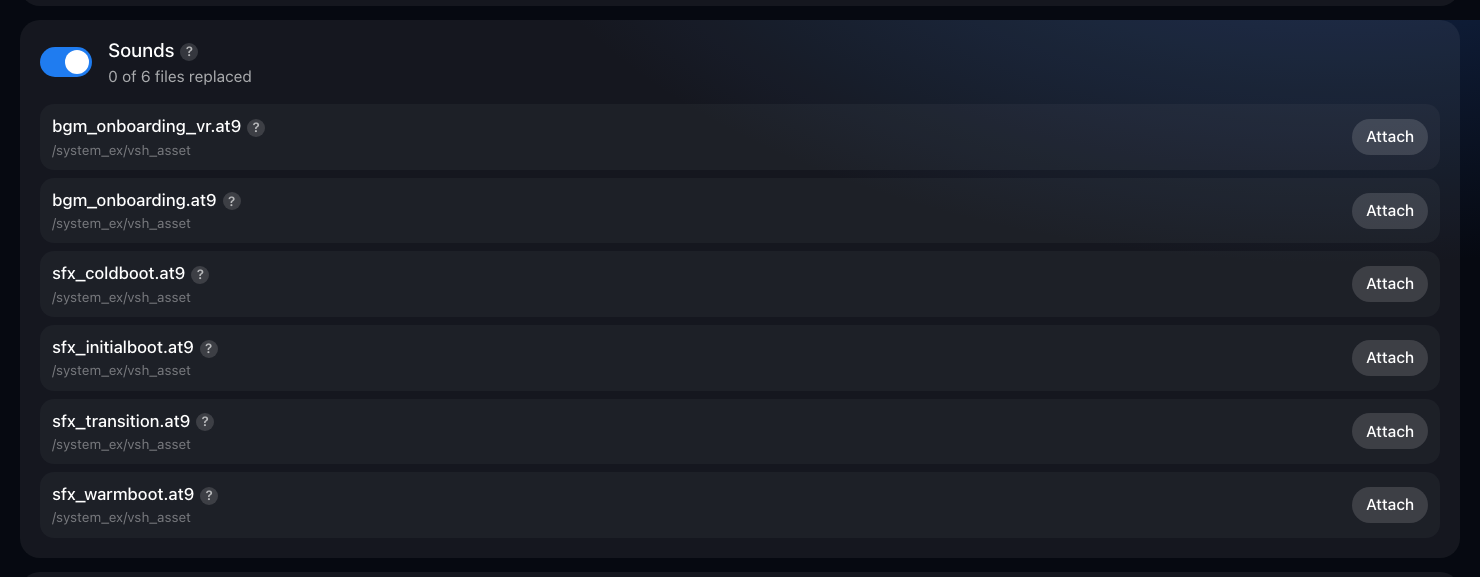
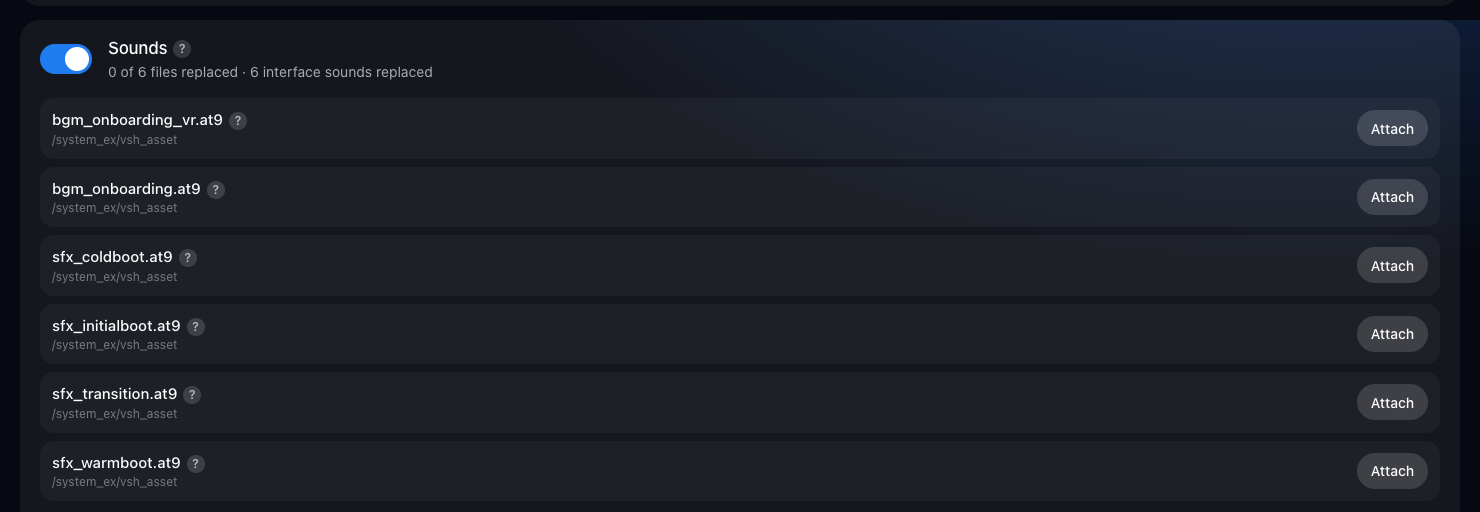
Docs: interface sounds screenshot, 1.62/1.63 console results, what was fixed
- manager.md: a screenshot of Interface sounds from the console (a theme with
  moving, selecting, going back, L1/R1 and the Control Center's sounds
  replaced) and the Sounds section's files retaken; every sound file takes
  any audio, a beep included.
- testing.md: the console tests of 1.62 (the update replacing Payload
  Manager's copy, interface sounds heard, then without the delay, the L1/R1
  sound found) and 1.63 (the same theme applied again refused, then one
  layer on every folder).
- challenges.md: an update that didn't last, layers that piled up,
  interface sounds no common tool reads, sounds that played late, a beep the
  transition sound refused.

diff --git a/docs/challenges.md b/docs/challenges.md
@@ -8,9 +8,11 @@ The problems met while building this, and how each was solved. Part of the [PS5 
 - [Overlays the home screen couldn't see](#overlays-the-home-screen-couldnt-see)
 - [Stock again after rest mode](#stock-again-after-rest-mode)
 - [Updating when the Toolbox is gone](#updating-when-the-toolbox-is-gone)
+- [An update that didn't last](#an-update-that-didnt-last)
 - [Nothing running after a restart](#nothing-running-after-a-restart)
 - [The interface that wouldn't start](#the-interface-that-wouldnt-start)
 - [A guard that took down every theme](#a-guard-that-took-down-every-theme)
+- [Layers that piled up](#layers-that-piled-up)
 - [Changing game and app icons safely](#changing-game-and-app-icons-safely)
 - [PS5 game icons that stayed the same](#ps5-game-icons-that-stayed-the-same)
 - [Apps that wouldn't start](#apps-that-wouldnt-start)
@@ -27,6 +29,9 @@ The problems met while building this, and how each was solved. Part of the [PS5 
 - [Slow encoding in some browsers](#slow-encoding-in-some-browsers)
 - [Reading the system's own file while a theme is applied](#reading-the-systems-own-file-while-a-theme-is-applied)
 - [Music that starts part-way through](#music-that-starts-part-way-through)
+- [Interface sounds no common tool reads](#interface-sounds-no-common-tool-reads)
+- [Sounds that played late](#sounds-that-played-late)
+- [A beep the transition sound refused](#a-beep-the-transition-sound-refused)
 - [A slow start after every reboot](#a-slow-start-after-every-reboot)
 - ["It forgot my theme after a reboot"](#it-forgot-my-theme-after-a-reboot)
 - [An import that lost the backgrounds](#an-import-that-lost-the-backgrounds)
@@ -73,6 +78,23 @@ back. **Solution:** the plugin updates itself: it notices a newer plugin
 file, starts it through etaHEN's ELF loader and hands over to it, and the new
 copy keeps the overlays already in place.
 
+## An update that didn't last
+
+A new version put in `/data/ps5-theme/update/` took over within seconds, but
+only until the next start: etaHEN or PS5 Payload Manager then started the old
+copy installed with them, which handed over to the new one again, and the
+update folder had to keep its copy for that. Newer versions of Payload
+Manager also keep imported payloads two folders down
+(`payloads/local/<name>/`), where the plugin never looked. **Solution**
+(1.62): once a newer copy runs, it takes the place of the older copies in
+etaHEN's and Payload Manager's folders, both layouts, written beside each and
+checked before it is renamed over it. Only then is the update folder emptied.
+It is the one write outside the plugin's own folders, and the write guard
+allows exactly that (see
+[Never writing the system](how-it-works.md#never-writing-the-system)).
+Confirmed on the console: Payload Manager's copy became the new build byte
+for byte.
+
 ## Nothing running after a restart
 
 After a restart, etaHEN started an older plugin while a newer one waited in
@@ -112,6 +134,24 @@ applied as its starting point, and only newer ones count. A host test now
 starts with three old sandboxes, applies a theme, and checks that a rest
 mode restart is covered, that a crash loop is still caught, and that
 applying again with all six sandboxes still there keeps the theme.
+
+## Layers that piled up
+
+The home screen keeps its interface folder open, so the plugin never pulls a
+theme's overlay out from under it: it stays, and the next one goes on top.
+Each switch added two layers there, a copy of the console's own files and
+then the new theme; after a day of trying themes the console's mount list
+showed 13 on `/system_ex/vsh_asset` (cleared at a restart). **Solution**
+(1.63): the new theme goes straight on top, with the copy of the console's
+files only where the new overlay doesn't go on. The first build then met a
+refusal on the console: applying the same theme again reuses its unchanged
+folder, which was the very folder under the overlay in use, and the
+console's nullfs won't stack a folder on a view of itself ("Resource
+deadlock avoided"). The fallback worked (the console's files went on top,
+then the view watcher covered them again), but that made three layers. In
+that case the overlay in use already shows exactly that folder, so it now
+simply carries on. After a restart and four applies, the console showed one
+theme layer on every folder.
 
 ## Changing game and app icons safely
 
@@ -579,6 +619,38 @@ music file changes it continues from the same point in the new file. Changing
 that would mean changing how the console's own software runs. **Solution:**
 the editor and README say so in plain words, and the editor describes what
 plays from the start of the music.
+
+## Interface sounds no common tool reads
+
+The interface's own sounds (moving between items, selecting, going back and
+81 more, besides 23 vibration patterns for the controller) live inside its
+resource file in Sony's HE-VAG, a VAG variant with 128 predictors instead of
+5 and two channels side by side. FFmpeg reads these files as plain mono VAG:
+the navigation sound came out garbled and twice its length (0.83 s instead
+of 0.41 s). **Solution:** the manager decodes them
+with vgmstream's predictor table and writes new ones with the 5 predictors
+both formats share, laid out byte for byte as Sony's (all 107 on 13.42 share
+one layout), and the plugin checks that layout before a sound is accepted.
+See [Interface sounds, in Sony's layout](how-it-works.md#interface-sounds-in-sonys-layout).
+
+## Sounds that played late
+
+The first replaced interface sounds played on the console, but late. Read
+back from the console, the theme's sounds (clips from a game) got loud 180 to
+325 ms after a press, after a quiet stretch 20 to 38 dB down that the
+trimming of silence had kept; Sony's own get loud within 5 to 35 ms.
+**Solution:** a new sound starts at its hit, keeping only the 10 ms before
+it, faded in, and a sound made earlier can be trimmed the same way with
+**Start at the hit**. On the console the delay was gone.
+
+## A beep the transition sound refused
+
+Any audio file converted for the system's ATRAC9 sounds, except a simple
+tone for `sfx_transition.at9`: "the console's ATRAC9 bitrate is too low for
+this encoder". That file is the only one never coded above precision 6, and
+with the encoder's gradients a loud, pure tone needed 7 somewhere.
+**Solution** (1.62): for such a file the encoder has steeper gradients too;
+every other file encodes byte for byte as before.
 
 ## A slow start after every reboot
 

diff --git a/docs/testing.md b/docs/testing.md
@@ -234,3 +234,9 @@ After any failure the console was restarted before the next test.
 | 1.61 | The plugin keeping a playlist's songs (`music2.wav` …) and their settings, with a one-song theme applied | **Works**: the one song as home music, as before |
 | 1.61 | A home music playlist made in the editor (songs added, each its own part), applied, then a game's music and back to the home screen | **Works** |
 | 1.61 | The editor's Preview of a theme (home screen and Control Center drawn from its files) | **Works** |
+| 1.62 | An update through the update folder, with the plugin installed in PS5 Payload Manager (`payloads/local/ps5-theme/`) | **Works**: the new version took the place of Payload Manager's copy (byte for byte the build), and the update folder emptied itself |
+| 1.62 | Interface sounds: moving between items, selecting and going back replaced with sounds from a game, applied, then rest mode | **The new sounds played**, but late. Read back from the console, they got loud 180 to 325 ms after a press, after a quiet stretch in the clips (Sony's: 5 to 35 ms) |
+| 1.62 | The same sounds started at their hit (Start at the hit, and attached again) | **Works**: no delay |
+| 1.62 | Which sound plays on L1 and R1 (the candidates decoded and played on a computer) | `snd_change_space`, now named Switching between Games and Media; it and the Control Center's sounds replaced: **work** |
+| 1.63 | Theme switches while the home screen held the interface folder, the same theme applied again among them | One layer per switch, but the same theme again was refused on three folders ("Resource deadlock avoided"): the console's files went on top, then the theme again, three layers and "applied partly" |
+| 1.63 | The fix, after a restart: Yakuza 0, Yakuza 0 again, Snoopy, Yakuza 0 | **Works**: each applied completely; exactly one theme layer on every folder afterwards (13 after a day of tests with 1.62) |

diff --git a/docs/manager.md b/docs/manager.md
@@ -139,9 +139,14 @@ System sounds and music clips, such as the wake-from-rest chime. Any audio
 file is converted to the sound's own format (WAV or ATRAC9) and loudness. The
 cold-boot sounds play before the jailbreak, so a theme can't reach them.
 `sfx_warmboot.at9`, the sound as the console wakes from rest mode, can be
-replaced: see [The wake-up sound](home-music.md#the-wake-up-sound).
+replaced: see [The wake-up sound](home-music.md#the-wake-up-sound). Every
+file in the list takes any audio, a simple beep included (since 1.62:
+`sfx_transition.at9` refused a pure tone before). The section's summary
+counts the interface sounds the theme replaced too.
 
 #### Interface sounds
+
+![The interface sounds: moving, selecting and going back first, the ones the theme replaced marked, then each Appearance theme's own](screenshots/interface-sounds.png)
 
 Below the files, **Interface sounds** lists the sounds the interface makes as
 you use it (since 1.62): moving between items, selecting, going back,
